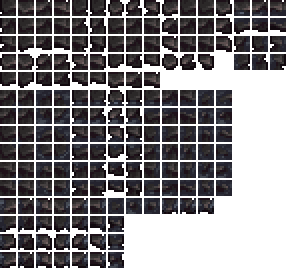
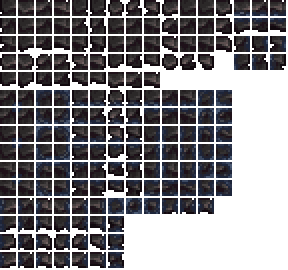
When the merges are sus

diff --git a/Tiles/Abyss/Voidstone.cs b/Tiles/Abyss/Voidstone.cs
@@ -281,7 +281,7 @@ namespace CalamityMod.Tiles.Abyss
 
         public override bool TileFrame(int i, int j, ref bool resetFrame, ref bool noBreak)
         {
-            TileFraming.CustomMergeFrame(i, j, Type, ModContent.TileType<AbyssGravel>(), false, false, false, false, resetFrame);
+            TileFraming.CustomMergeFrame(i, j, Type, ModContent.TileType<PyreMantle>(), false, false, false, false, resetFrame);
             return false;
         }
 
